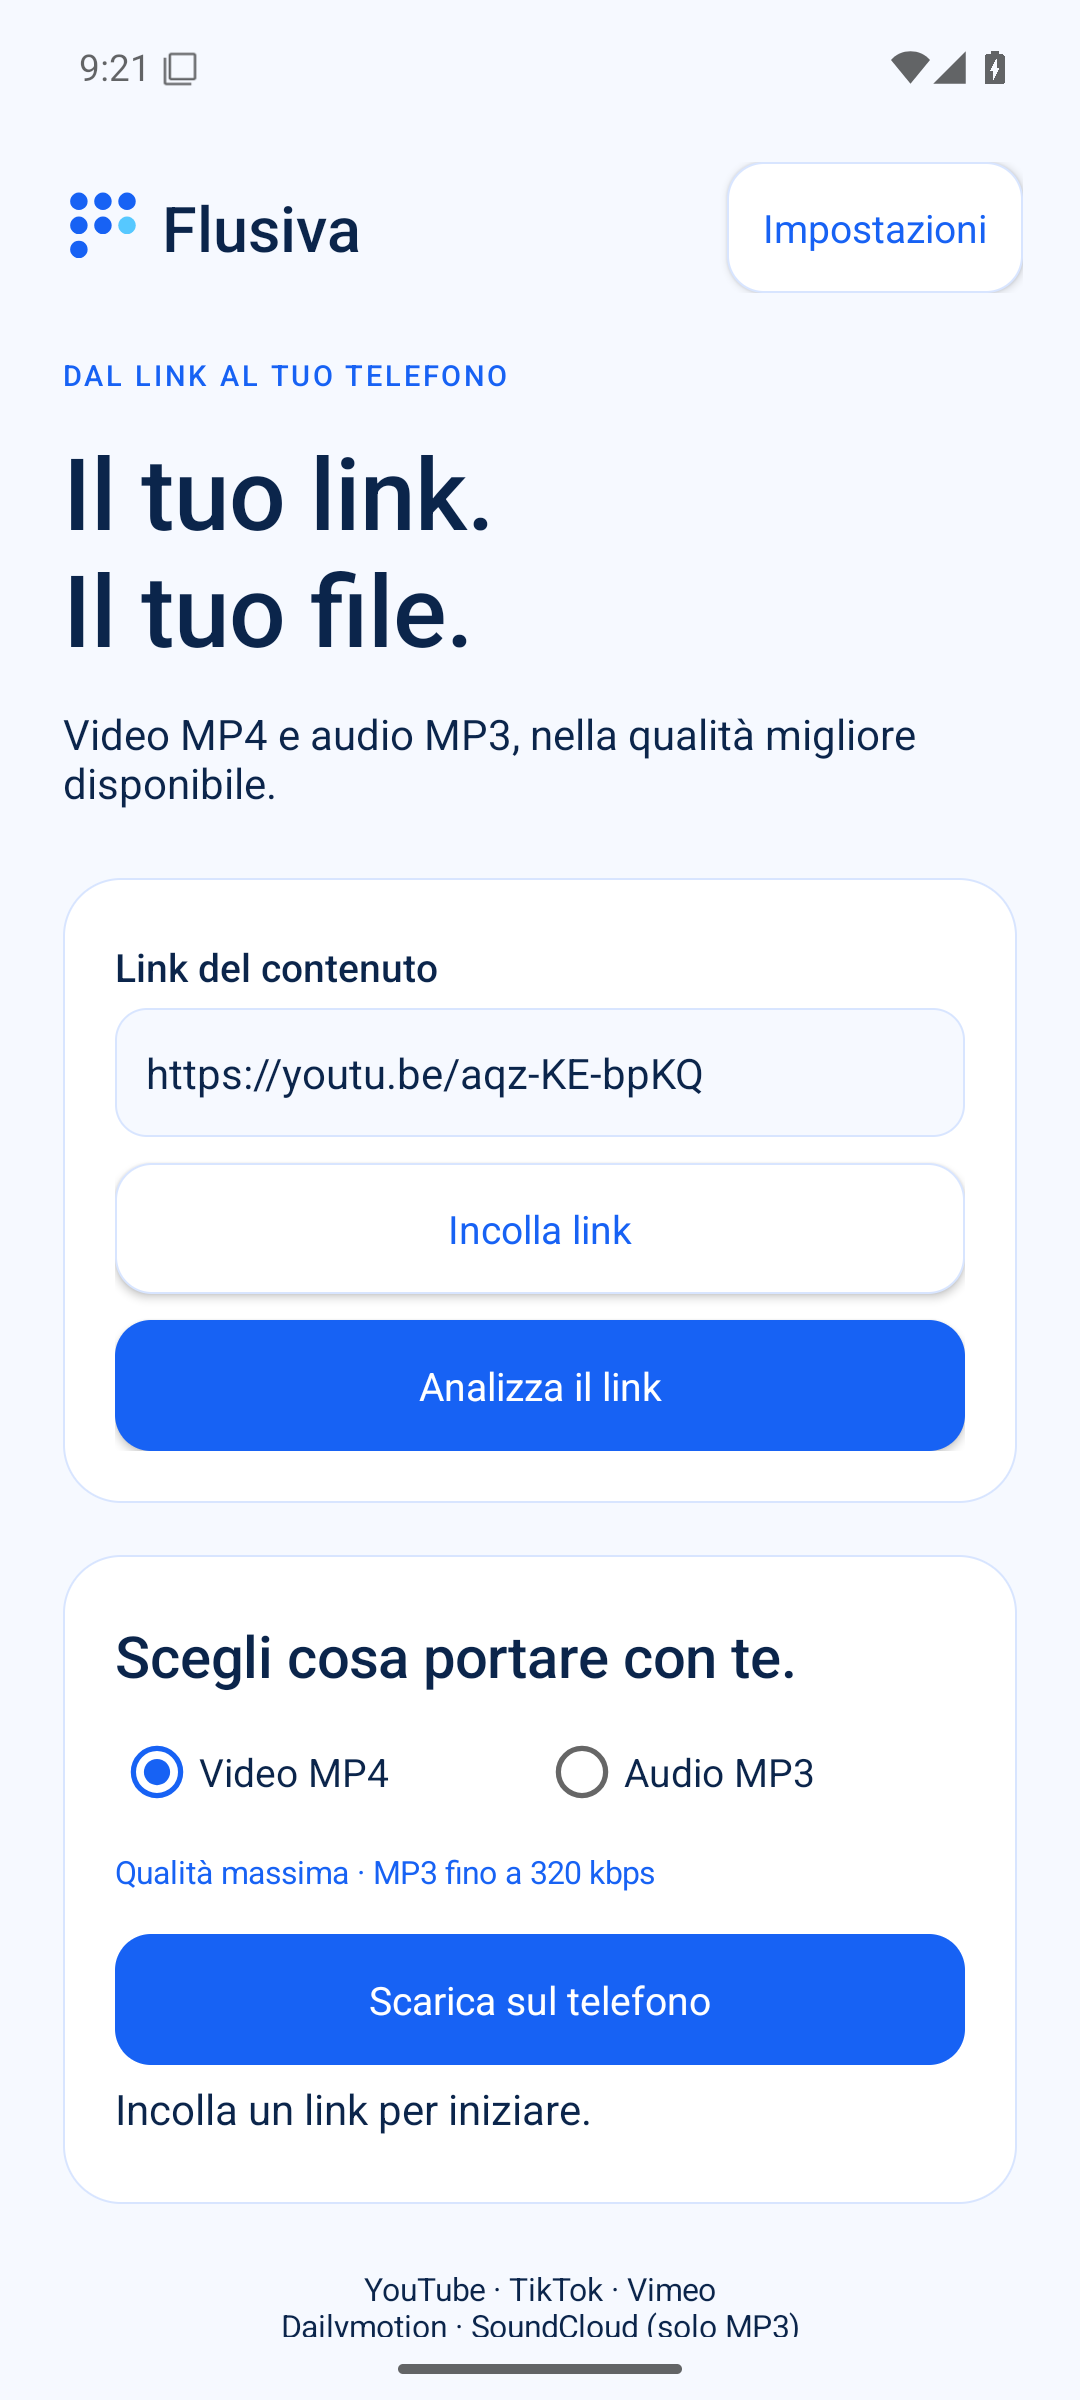
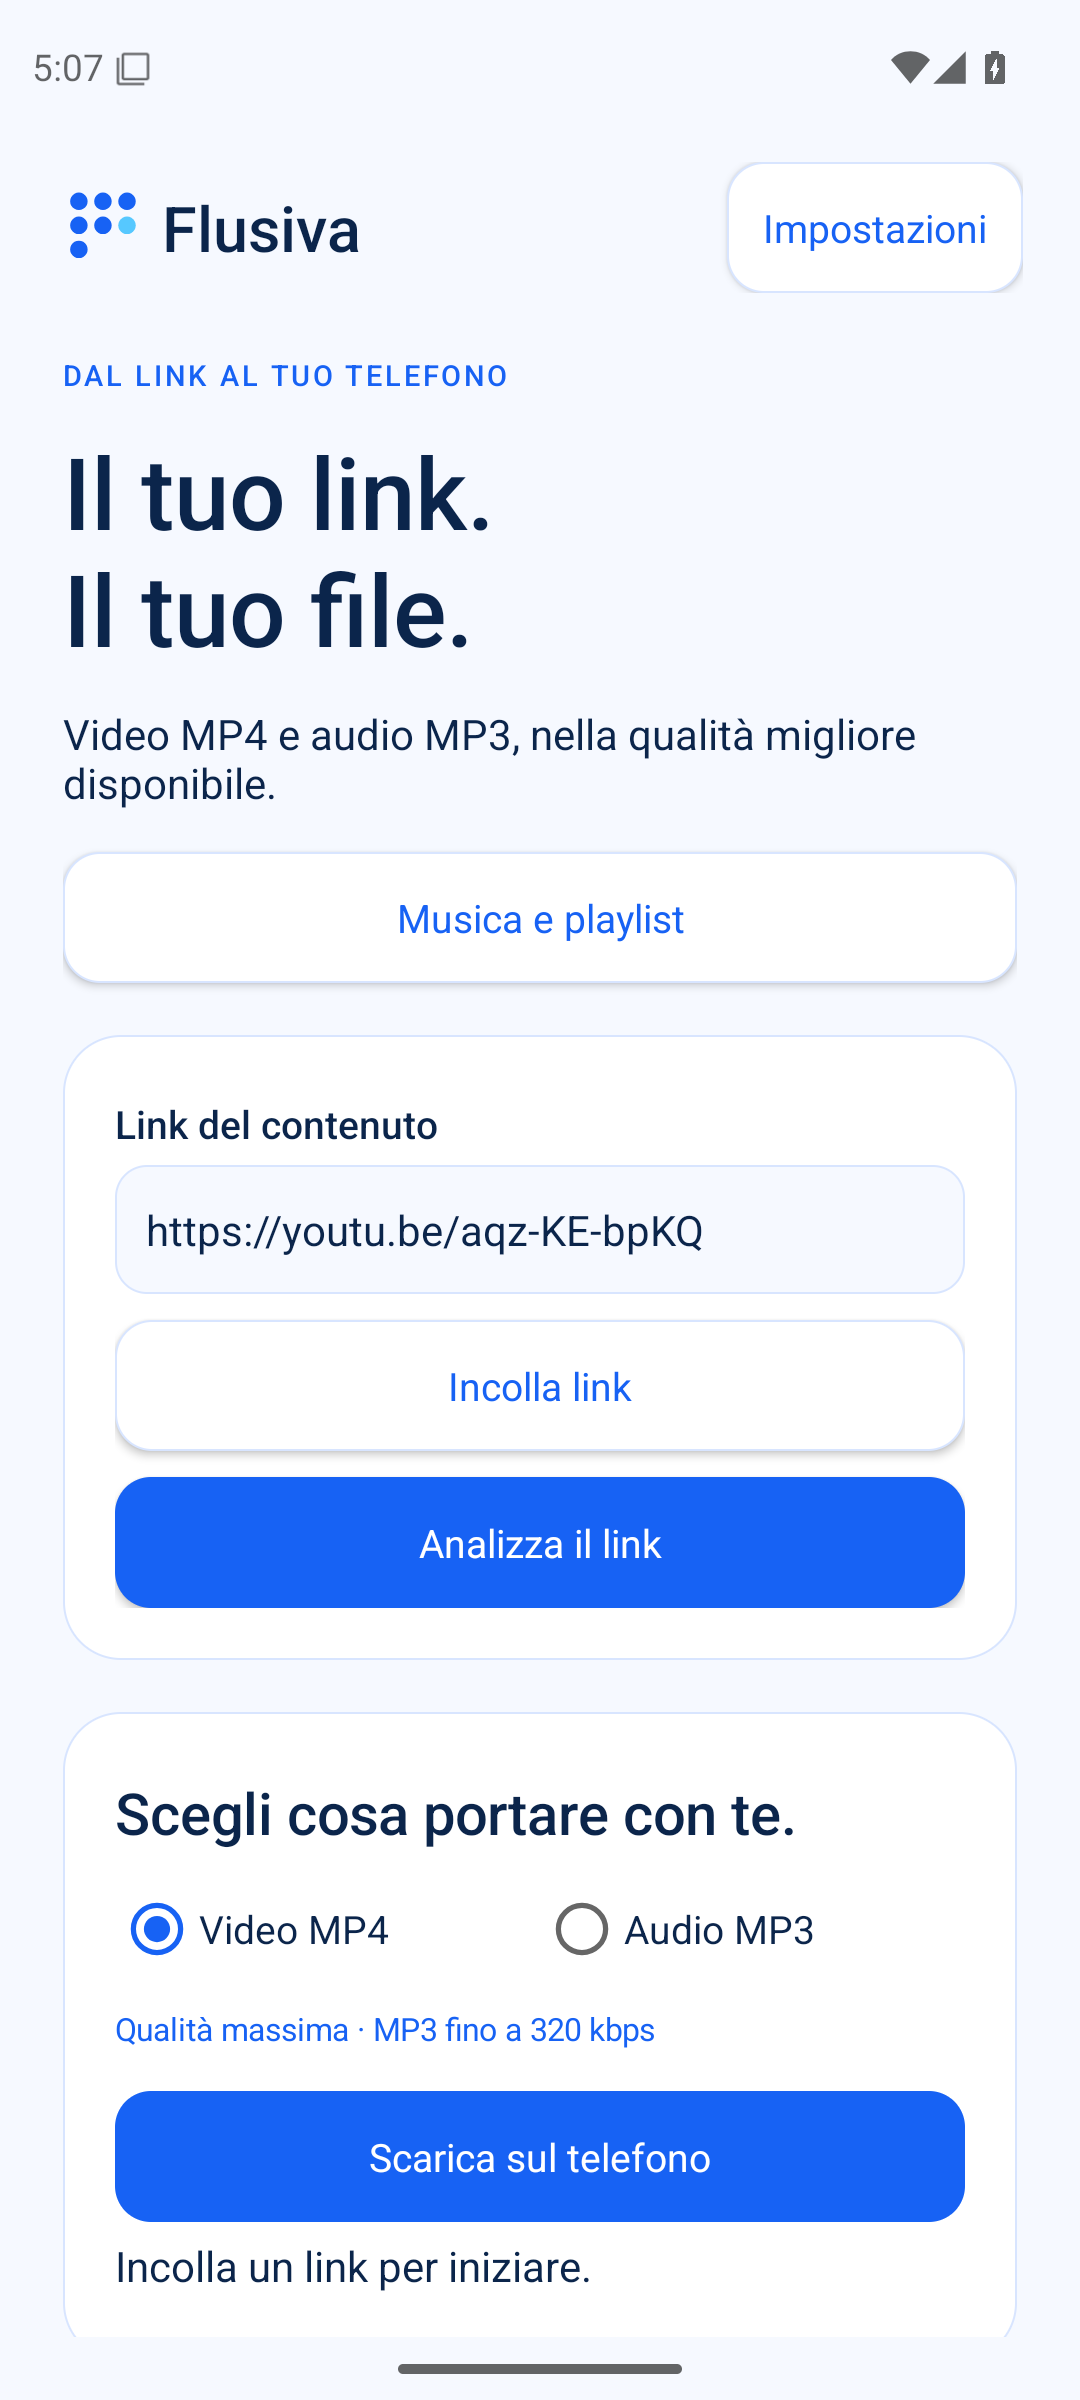
docs: publish music player equalizer and playlist screenshots [skip ci]

Changed region(s): [[0.0917, 0.375, 0.9472, 0.9688], [0.0611, 0.0, 0.1833, 0.0312], [0.9167, 0.6562, 0.9472, 0.6875]]

diff --git a/docs/ANDROID.md b/docs/ANDROID.md
@@ -12,13 +12,13 @@ Scaricare `Flusiva-VERSIONE-android.apk` dalle [Release ufficiali](https://githu
 2. Premere **Analizza il link**, scegliere Video MP4 o Audio MP3 e **Scarica sul telefono**.
 3. Il file viene salvato in **Download/Flusiva**. Si può aprire o condividere dall’app.
 
-YouTube, TikTok, Vimeo e Dailymotion offrono MP4/MP3; SoundCloud solo MP3. Nessun supporto Spotify, playlist, dirette, contenuti con DRM, account o importazione cookie. Restrizioni e disponibilità dipendono dalle piattaforme; le verifiche desktop non dimostrano automaticamente il funzionamento su ogni telefono o rete.
+YouTube, TikTok, Vimeo e Dailymotion offrono MP4/MP3; SoundCloud solo MP3. Nessun supporto Spotify, download di playlist delle piattaforme, dirette, contenuti con DRM, account o importazione cookie. Le playlist locali di ascolto sono disponibili dalla 0.6. Restrizioni e disponibilità dipendono dalle piattaforme; le verifiche desktop non dimostrano automaticamente il funzionamento su ogni telefono o rete.
 
 La qualità massima è attiva inizialmente: cerca la migliore sorgente video/audio disponibile e converte MP3 a 320 kbps. Non può migliorare la qualità della sorgente. Disattivarla nelle Impostazioni per scegliere un limite di risoluzione o un bitrate diverso. MP4 può contenere codec che il lettore del telefono non supporta.
 
 Il download continua tramite servizio in primo piano, con notifica e comando **Annulla**. Consentire le notifiche per vedere l’avanzamento fuori dall’app. L’annullamento rimane disponibile nell’interfaccia anche senza tale permesso. Un file alla volta, massimo 6 ore di contenuto, 8 GiB per traccia e 2 ore per operazione; servono spazio e batteria per i file temporanei e la conversione. Android può imporre ulteriori limiti ai servizi in background. Una chiusura forzata interrompe il lavoro; i temporanei vengono ripuliti alla successiva operazione.
 
-I file sono pubblicati tramite MediaStore, senza accesso generale alla memoria o ai file altrui. Un salvataggio interrotto viene rimosso. Le preferenze sono locali, senza database. La prima versione Android non include coda, temi scuri o ripresa dei file parziali della versione desktop.
+I file sono pubblicati tramite MediaStore, senza accesso generale alla memoria o ai file altrui. Un salvataggio interrotto viene rimosso. Le preferenze sono locali, senza database. Android non include ancora coda dei download, temi scuri o ripresa dei file parziali; la coda di ascolto musicale è disponibile dalla 0.6.
 
 In **Impostazioni → Aggiornamenti** si controlla la nuova versione e si apre la Release per il download manuale dell’APK. Android chiede la conferma prima dell’installazione. Per aggiornare un’app già installata il nuovo APK deve avere lo stesso identificativo e la stessa firma.
 

diff --git a/docs/MUSIC.md b/docs/MUSIC.md
@@ -2,6 +2,8 @@
 
 Da **Flusiva 0.6.0 per Android**, aprire **Musica e playlist** dalla schermata principale oppure **Ascolta in Flusiva** dopo un download. Il lettore usa AndroidX Media3 1.11.1 e riproduce i file sul telefono, senza caricarli su un servizio Flusiva. Questa funzione è per Android; la versione desktop mantiene le proprie funzioni di download.
 
+<p><img src="images/android-music.png" alt="Lettore musicale con dati del file di prova" width="280"> <img src="images/android-equalizer.png" alt="Equalizzatore attivo con bande reali del dispositivo" width="280"></p>
+
 ## Brani e ascolto
 
 La libreria elenca i file audio creati da Flusiva in Download/Flusiva. **Importa file audio** permette di scegliere altri file con il selettore Android, senza chiedere accesso generale alla memoria. Il selettore deve concedere un accesso permanente al file. MP3, AAC/M4A, FLAC, Ogg/Opus e WAV dipendono dai decoder disponibili sul dispositivo. Il lettore può anche ascoltare la traccia audio di un MP4 aperto da un download.
@@ -17,6 +19,8 @@ La riproduzione continua quando si passa a un’altra app o si spegne lo schermo
 3. Premere **Avvia playlist**, oppure toccare un brano per iniziare da quello.
 
 **Gestisci playlist** permette di modificare i brani, rinominare o eliminare la playlist. Tenendo premuto un brano si può spostarlo prima/dopo o rimuoverlo. Eliminare una playlist o rimuovere un riferimento non elimina i file audio. La modifica di una playlist salvata si applica quando la si avvia nuovamente; la coda già in ascolto rimane quella avviata.
+
+<img src="images/android-playlists.png" alt="Selezione dei file da aggiungere alla playlist" width="280">
 
 Fino a 50 playlist, con massimo 500 riferimenti per playlist. I riferimenti sono URI locali `content://`, salvati in JSON nelle preferenze dell’app, senza database e senza duplicare i file. Nome e ordine rimangono dopo la riapertura e gli aggiornamenti dell’app. Disinstallazione o cancellazione dei dati dell’app rimuovono le playlist; spostare o cancellare un file può rendere il relativo riferimento non più accessibile.
 

diff --git a/docs/VALIDATION.md b/docs/VALIDATION.md
@@ -7,6 +7,7 @@
 * Prima prova Actions su Android 15 riuscita: 3 test su emulatore, inclusi lettura dei dati MP3, persistenza e cancellazione delle playlist senza cancellazione dell’audio, WAV reale con 44.1 kHz/mono/16 bit, seek, pausa, passaggio al brano successivo, timer e gestione dell’equalizzatore.
 * La prova ha rilasciato il controller della schermata, spento lo schermo e riconnesso un controller verificando che la riproduzione fosse ancora attiva e avanzata. Profilo dell’emulatore isolato.
 * Le prove su cuffie Bluetooth, altri effetti audio e telefoni fisici rimangono da raccogliere. Non è stata misurata la qualità acustica dell’uscita.
+* Verifica finale sul tag v0.6.0 riuscita: tutti i job di build e i test su emulatore hanno avuto esito positivo. La prova UI ha creato una playlist, aggiunto il file selezionato e avviato la riproduzione. Screenshot reali di lettore, EQ attivo e scelta dei brani ispezionati e inclusi nella guida.
 
 ## Estensione Android 0.5.0
 
